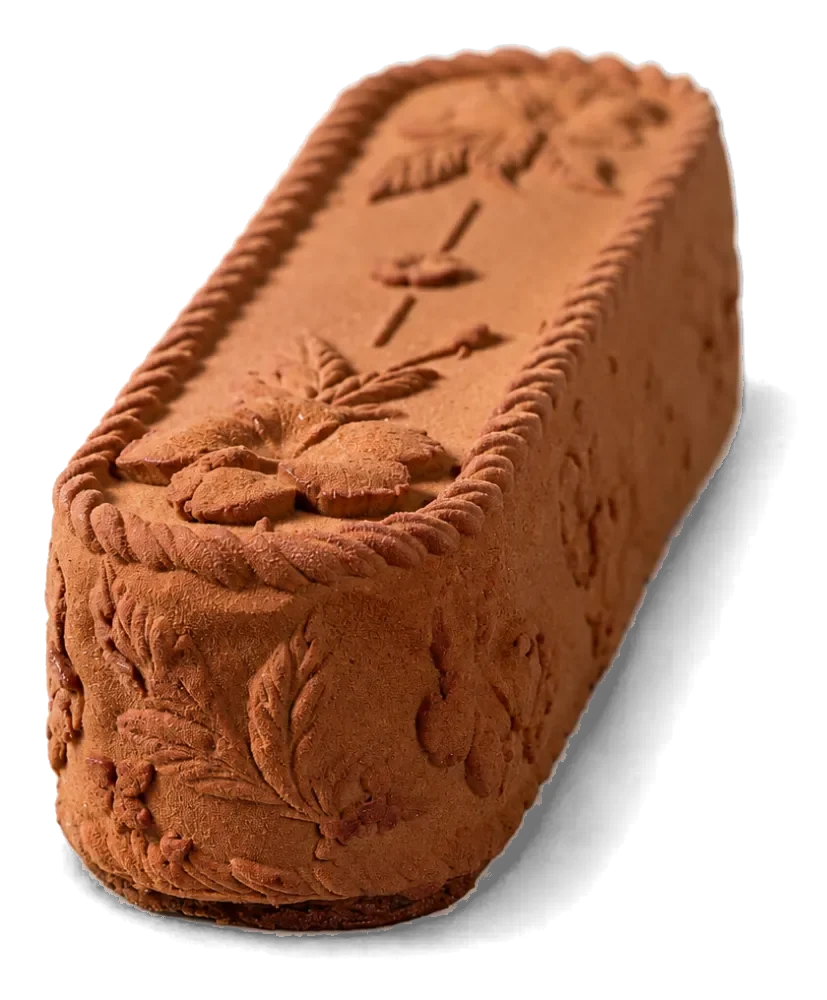
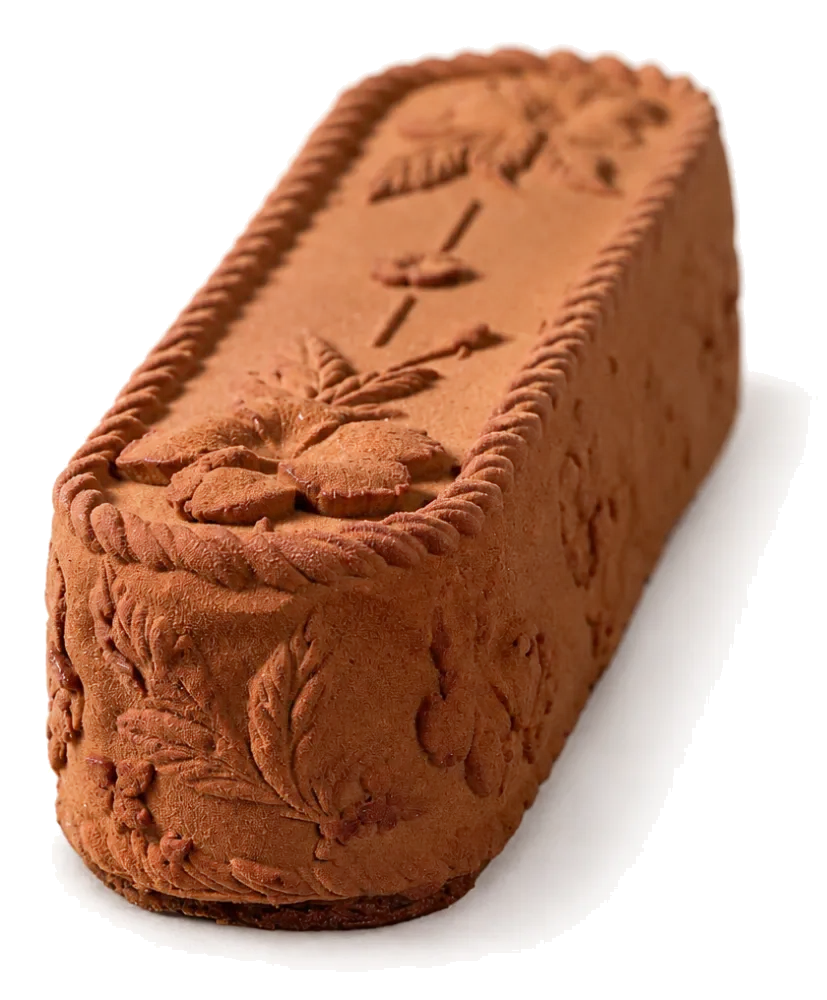
Photos sans défaut de bord sur iPhone ; noms et descriptions simplifiés
- Photos des bûches et des gousses : fond blanc rendu transparent pixel par
  pixel (même rendu que multiply), plus de bord en escalier sous l'ombre
- « Toute la carte » -> « Toutes les créations »
- Praliné Vanille, Gianduja, Vanille de Madagascar ; descriptions raccourcies

Changed region(s): [[0.2721, 0.403, 0.9069, 0.961], [0.1511, 0.899, 0.2721, 0.93], [0.0907, 0.868, 0.1511, 0.899]]

diff --git a/gianduja.html b/gianduja.html
@@ -3,9 +3,9 @@
 <head>
   <meta charset="utf-8">
   <meta name="viewport" content="width=device-width, initial-scale=1">
-  <title>Le gianduja · Bryan Didon – Haute Pâtisserie</title>
+  <title>Gianduja · Bryan Didon – Haute Pâtisserie</title>
   <meta name="description" content="Pâte à tartiner gianduja Bryan Didon, pot de 200 g : amandes, noisettes, cacao. Composition, allergènes et commande en click & collect, Guadeloupe.">
-  <meta property="og:title" content="Le gianduja · Bryan Didon – Haute Pâtisserie">
+  <meta property="og:title" content="Gianduja · Bryan Didon – Haute Pâtisserie">
   <meta property="og:description" content="Pâte à tartiner gianduja Bryan Didon, pot de 200 g : amandes, noisettes, cacao. Composition, allergènes et commande en click & collect, Guadeloupe.">
   <meta property="og:image" content="https://www.bryandidon.fr/images/og-bryan-didon.jpg">
   <meta property="og:url" content="https://www.bryandidon.fr/gianduja">
@@ -97,8 +97,8 @@
       </div>
       <div class="produit__texte">
         <svg class="lys" aria-hidden="true"><use href="#lys"/></svg>
-        <h1 class="produit__titre" id="produit-titre">Le gianduja</h1>
-        <p class="lead">Pâte à tartiner gianduja : amandes, noisettes et cacao. Pour la cuillère, la tartine, ou rien du tout.</p>
+        <h1 class="produit__titre" id="produit-titre">Gianduja</h1>
+        <p class="lead">Pâte à tartiner gianduja.</p>
         <p class="card__prix">9,50&nbsp;€ <span>le pot de 200&nbsp;g</span></p>
         <a class="pill pill--cta card__commande" href="https://takeat.fr/bryan-didon/emporter" data-suivi="Commander" data-suivi-depuis="page gianduja">Commander le gianduja
           <svg class="pill__chevron" aria-hidden="true"><use href="#chevron"/></svg>
@@ -155,11 +155,11 @@
         </a>
         <a class="autres__carte" href="/praline">
           <img src="images/pate-a-tartiner-praline-vanille.webp" alt="" loading="lazy">
-          Le praliné
+          Praliné Vanille
         </a>
         <a class="autres__carte" href="/vanille">
           <img src="images/vanille-tube.webp" alt="" loading="lazy">
-          La vanille de Madagascar
+          Vanille de Madagascar
         </a>
       </div>
     </section>

diff --git a/praline.html b/praline.html
@@ -3,9 +3,9 @@
 <head>
   <meta charset="utf-8">
   <meta name="viewport" content="width=device-width, initial-scale=1">
-  <title>Le praliné · Bryan Didon – Haute Pâtisserie</title>
+  <title>Praliné Vanille · Bryan Didon – Haute Pâtisserie</title>
   <meta name="description" content="Pâte à tartiner praliné vanille Bryan Didon, pot de 200 g. Composition, allergènes et commande en click & collect, Guadeloupe.">
-  <meta property="og:title" content="Le praliné · Bryan Didon – Haute Pâtisserie">
+  <meta property="og:title" content="Praliné Vanille · Bryan Didon – Haute Pâtisserie">
   <meta property="og:description" content="Pâte à tartiner praliné vanille Bryan Didon, pot de 200 g. Composition, allergènes et commande en click & collect, Guadeloupe.">
   <meta property="og:image" content="https://www.bryandidon.fr/images/og-bryan-didon.jpg">
   <meta property="og:url" content="https://www.bryandidon.fr/praline">
@@ -97,8 +97,8 @@
       </div>
       <div class="produit__texte">
         <svg class="lys" aria-hidden="true"><use href="#lys"/></svg>
-        <h1 class="produit__titre" id="produit-titre">Le praliné</h1>
-        <p class="lead">Pâte à tartiner praliné vanille. Pour la cuillère, la tartine, ou rien du tout.</p>
+        <h1 class="produit__titre" id="produit-titre">Praliné Vanille</h1>
+        <p class="lead">Pâte à tartiner praliné vanille.</p>
         <p class="card__prix">11&nbsp;€ <span>le pot de 200&nbsp;g</span></p>
         <a class="pill pill--cta card__commande" href="https://takeat.fr/bryan-didon/emporter?plat=74bd453e-48f6-4b58-99b2-41d4fa9a115b" data-suivi="Commander" data-suivi-depuis="page praliné">Commander le praliné
           <svg class="pill__chevron" aria-hidden="true"><use href="#chevron"/></svg>
@@ -155,11 +155,11 @@
         </a>
         <a class="autres__carte" href="/gianduja">
           <img src="images/pate-a-tartiner-gianduja.webp" alt="" loading="lazy">
-          Le gianduja
+          Gianduja
         </a>
         <a class="autres__carte" href="/vanille">
           <img src="images/vanille-tube.webp" alt="" loading="lazy">
-          La vanille de Madagascar
+          Vanille de Madagascar
         </a>
       </div>
     </section>

diff --git a/creations.html b/creations.html
@@ -166,8 +166,8 @@
             <img src="images/pate-a-tartiner-praline-vanille.webp" width="588" height="703" alt="Pot de pâte à tartiner praliné vanille Bryan Didon, 200 g" loading="lazy">
           </a>
           <p class="vitrine__saison">À tartiner</p>
-          <h2 class="vitrine__nom" id="carte-praline"><a href="/praline">Pâte à tartiner praliné vanille</a></h2>
-          <p class="vitrine__desc">Pot de 200&nbsp;g. Pour la cuillère, la tartine, ou rien du tout.</p>
+          <h2 class="vitrine__nom" id="carte-praline"><a href="/praline">Praliné Vanille</a></h2>
+          <p class="vitrine__desc">Pâte à tartiner, pot de 200&nbsp;g.</p>
           <p class="vitrine__prix">11&nbsp;€</p>
           <a class="pill pill--cta card__commande" href="https://takeat.fr/bryan-didon/emporter?plat=74bd453e-48f6-4b58-99b2-41d4fa9a115b" data-suivi="Commander" data-suivi-depuis="catalogue" data-suivi-produit="praline">Commander
             <svg class="pill__chevron" aria-hidden="true"><use href="#chevron"/></svg>
@@ -179,8 +179,8 @@
             <img src="images/pate-a-tartiner-gianduja.webp" width="740" height="900" alt="Pot de pâte à tartiner gianduja Bryan Didon, 200 g" loading="lazy">
           </a>
           <p class="vitrine__saison">À tartiner</p>
-          <h2 class="vitrine__nom" id="carte-gianduja"><a href="/gianduja">Pâte à tartiner gianduja</a></h2>
-          <p class="vitrine__desc">Pot de 200&nbsp;g. Amandes, noisettes et cacao.</p>
+          <h2 class="vitrine__nom" id="carte-gianduja"><a href="/gianduja">Gianduja</a></h2>
+          <p class="vitrine__desc">Pâte à tartiner, pot de 200&nbsp;g.</p>
           <p class="vitrine__prix">9,50&nbsp;€</p>
           <a class="pill pill--cta card__commande" href="https://takeat.fr/bryan-didon/emporter" data-suivi="Commander" data-suivi-depuis="catalogue" data-suivi-produit="gianduja">Commander
             <svg class="pill__chevron" aria-hidden="true"><use href="#chevron"/></svg>

diff --git a/vanille.html b/vanille.html
@@ -3,9 +3,9 @@
 <head>
   <meta charset="utf-8">
   <meta name="viewport" content="width=device-width, initial-scale=1">
-  <title>La vanille de Madagascar · Bryan Didon – Haute Pâtisserie</title>
+  <title>Vanille de Madagascar · Bryan Didon – Haute Pâtisserie</title>
   <meta name="description" content="Gousses de vanille Bourbon de Madagascar Bryan Didon, en tube de 2, 5 ou 10 gousses. Commande en click & collect, Guadeloupe.">
-  <meta property="og:title" content="La vanille de Madagascar · Bryan Didon – Haute Pâtisserie">
+  <meta property="og:title" content="Vanille de Madagascar · Bryan Didon – Haute Pâtisserie">
   <meta property="og:description" content="Gousses de vanille Bourbon de Madagascar Bryan Didon, en tube de 2, 5 ou 10 gousses. Commande en click & collect, Guadeloupe.">
   <meta property="og:image" content="https://www.bryandidon.fr/images/og-bryan-didon.jpg">
   <meta property="og:url" content="https://www.bryandidon.fr/vanille">
@@ -101,7 +101,7 @@
       </div>
       <div class="produit__texte">
         <svg class="lys" aria-hidden="true"><use href="#lys"/></svg>
-        <h1 class="produit__titre" id="produit-titre">La vanille de Madagascar</h1>
+        <h1 class="produit__titre" id="produit-titre">Vanille de Madagascar</h1>
         <p class="lead">Gousses de vanille Bourbon, charnues et parfumées : celles de nos pâtisseries, en tube de verre.</p>
         <dl class="prices" aria-label="Formats et prix">
           <div><dt>2 gousses</dt><dd>5&nbsp;€</dd></div>
@@ -159,11 +159,11 @@
         </a>
         <a class="autres__carte" href="/praline">
           <img src="images/pate-a-tartiner-praline-vanille.webp" alt="" loading="lazy">
-          Le praliné
+          Praliné Vanille
         </a>
         <a class="autres__carte" href="/gianduja">
           <img src="images/pate-a-tartiner-gianduja.webp" alt="" loading="lazy">
-          Le gianduja
+          Gianduja
         </a>
       </div>
     </section>

diff --git a/index.html b/index.html
@@ -196,7 +196,7 @@
 
       <div class="carte-apercu" aria-labelledby="apercu-titre">
         <div class="carte-apercu__tete">
-          <h3 class="carte-apercu__titre" id="apercu-titre">Toute la carte</h3>
+          <h3 class="carte-apercu__titre" id="apercu-titre">Toutes les créations</h3>
           <a class="lien-fiche" href="/creations">Tout voir</a>
         </div>
         <ul class="rail" role="list">
@@ -214,7 +214,7 @@
             <a class="rail__carte" href="/praline">
               <img class="rail__img" src="images/pate-a-tartiner-praline-vanille.webp" width="588" height="703" alt="" loading="lazy">
               <span class="rail__saison">À tartiner</span>
-              <span class="rail__nom">Le praliné</span>
+              <span class="rail__nom">Praliné Vanille</span>
               <span class="rail__prix">11&nbsp;€</span>
             </a>
           </li>
@@ -222,7 +222,7 @@
             <a class="rail__carte" href="/gianduja">
               <img class="rail__img" src="images/pate-a-tartiner-gianduja.webp" width="740" height="900" alt="" loading="lazy">
               <span class="rail__saison">À tartiner</span>
-              <span class="rail__nom">Le gianduja</span>
+              <span class="rail__nom">Gianduja</span>
               <span class="rail__prix">9,50&nbsp;€</span>
             </a>
           </li>
@@ -230,7 +230,7 @@
             <a class="rail__carte" href="/vanille">
               <img class="rail__img" src="images/vanille-tube.webp" width="446" height="1000" alt="" loading="lazy">
               <span class="rail__saison">Épicerie fine</span>
-              <span class="rail__nom">La vanille de Madagascar</span>
+              <span class="rail__nom">Vanille de Madagascar</span>
               <span class="rail__prix"><span>à partir de</span> 5&nbsp;€</span>
             </a>
           </li>

diff --git a/maison.html b/maison.html
@@ -127,8 +127,8 @@
         <li><a href="/galette"><img src="images/galette-entiere.webp" alt="" width="1535" height="1024" loading="lazy">La galette</a></li>
         -->
         <li><a href="/buches"><img src="images/buche-exotique-coupe.webp" alt="" width="1000" height="883" loading="lazy">Les bûches</a></li>
-        <li><a href="/praline"><img src="images/pate-a-tartiner-praline-vanille.webp" alt="" width="588" height="703" loading="lazy">Le praliné</a></li>
-        <li><a href="/gianduja"><img src="images/pate-a-tartiner-gianduja.webp" alt="" width="740" height="900" loading="lazy">Le gianduja</a></li>
+        <li><a href="/praline"><img src="images/pate-a-tartiner-praline-vanille.webp" alt="" width="588" height="703" loading="lazy">Praliné Vanille</a></li>
+        <li><a href="/gianduja"><img src="images/pate-a-tartiner-gianduja.webp" alt="" width="740" height="900" loading="lazy">Gianduja</a></li>
         <li><a href="/vanille"><img src="images/vanille-tube.webp" alt="" width="446" height="1000" loading="lazy">La vanille</a></li>
       </ul>
       <p class="maison__action"><a class="pill pill--cta" href="/creations">Découvrir nos créations

diff --git a/galette.html b/galette.html
@@ -157,15 +157,15 @@
         </a>
         <a class="autres__carte" href="/praline">
           <img src="images/pate-a-tartiner-praline-vanille.webp" alt="" loading="lazy">
-          Le praliné
+          Praliné Vanille
         </a>
         <a class="autres__carte" href="/gianduja">
           <img src="images/pate-a-tartiner-gianduja.webp" alt="" loading="lazy">
-          Le gianduja
+          Gianduja
         </a>
         <a class="autres__carte" href="/vanille">
           <img src="images/vanille-tube.webp" alt="" loading="lazy">
-          La vanille de Madagascar
+          Vanille de Madagascar
         </a>
       </div>
     </section>

diff --git a/buches.html b/buches.html
@@ -286,15 +286,15 @@
         -->
         <a class="autres__carte" href="/praline">
           <img src="images/pate-a-tartiner-praline-vanille.webp" alt="" loading="lazy">
-          Le praliné
+          Praliné Vanille
         </a>
         <a class="autres__carte" href="/gianduja">
           <img src="images/pate-a-tartiner-gianduja.webp" alt="" loading="lazy">
-          Le gianduja
+          Gianduja
         </a>
         <a class="autres__carte" href="/vanille">
           <img src="images/vanille-tube.webp" alt="" loading="lazy">
-          La vanille de Madagascar
+          Vanille de Madagascar
         </a>
       </div>
     </section>

diff --git a/CLAUDE.md b/CLAUDE.md
@@ -29,7 +29,7 @@ Site vitrine qui présente la marque et **redirige vers l'application de command
 - **Prix d'un produit à plusieurs tailles : toujours écrit « à partir de » le plus petit prix** dans les listes (ex. galette « à partir de 26 € »).
 - `galette.html`, `buches.html` (parfum choisi via `?parfum=exotique|chocolat|vanille`), `praline.html`, `vanille.html`, servies en `/galette`, `/buches`, `/praline`, `/vanille`.
 - Bûches : la description de chaque parfum (parts, couches de haut en bas, pictogrammes allergènes et garanties « sans porc »…) est **uniquement dans `buches.html`** (l'accueil n'en montre plus le détail). Pictogrammes : symboles `#p-*` du sprite SVG.
-- Photos des bûches : `images/buche-<parfum>-coupe|profil|dessus.webp` (fond transparent avec ombre douce ; toute nouvelle photo sur fond blanc doit être détourée : ne pas compter sur `mix-blend-mode`, que Safari sur iPhone ignore dans les zones qui défilent). La découpe est mise en avant (À la une, catalogue, vignettes) ; galerie des 3 vues sur `/buches`. Galerie de `/buches` : Découpe, Profil, Dessus. Le carrousel du haut de l'accueil utilise les vues de profil détourées `buche-<parfum>-profil-detoure.webp` (la galette en est retirée hors saison : la remettre avec `galette-hero.webp`).
+- Photos des bûches : `images/buche-<parfum>-coupe|profil|dessus.webp` (fond blanc rendu transparent pixel par pixel, comme un « multiply » : alpha = 1 − min(R,G,B)/255, couleur dé-mélangée du blanc ; même méthode pour toute nouvelle photo sur fond blanc ; ne pas compter sur `mix-blend-mode`, que Safari sur iPhone ignore dans les zones qui défilent). La découpe est mise en avant (À la une, catalogue, vignettes) ; galerie des 3 vues sur `/buches`. Galerie de `/buches` : Découpe, Profil, Dessus. Le carrousel du haut de l'accueil utilise les vues de profil détourées `buche-<parfum>-profil-detoure.webp` (la galette en est retirée hors saison : la remettre avec `galette-hero.webp`).
 - **Galette hors saison** (jusqu'à janvier) : tous ses blocs sont en commentaire `<!-- HORS SAISON – galette … -->` (accueil, catalogue + onglet Galettes, « Nos autres créations », La Maison), `/galette` est redirigée vers `/creations` (redirection temporaire dans `vercel.json`) et elle est retirée des descriptions `<meta>` de l'accueil et du catalogue. Pour la remettre : décommenter ces blocs, retirer la redirection, remettre « galette des rois » dans les descriptions, remettre `galette-hero.webp` dans le carrousel et adapter le bloc `saveurs` de l'accueil.
 - Accueil : la création de saison en « Trois parfums » (bloc `<article class="saveurs">` : une carte par bûche avec photo intérieure, goût, Commander, composition ; sur téléphone l'une sous l'autre en cartes compactes photo à gauche, 3 côte à côte sur ordinateur), un bandeau gros plan `buche-texture.webp`, puis « Toute la carte » en petites cartes vers les fiches (l'une sous l'autre sur téléphone, côte à côte sur ordinateur). Le catalogue complet est sur `/creations` (onglets Bûches / Galettes / À tartiner / Épicerie, lien direct `/creations?categorie=buches` ; un onglet sans produit disparaît).
 - Téléphone : barre « Commander » en bas de l'écran (créée par `script.js`) sur l'accueil et les fiches, seulement panier vide (panier rempli : bouton « Panier » de Takeat).
